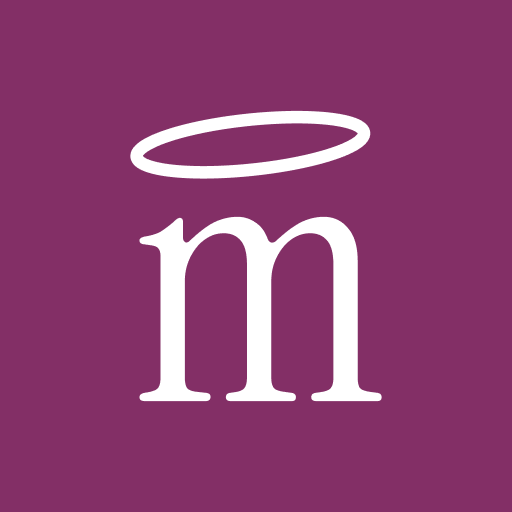
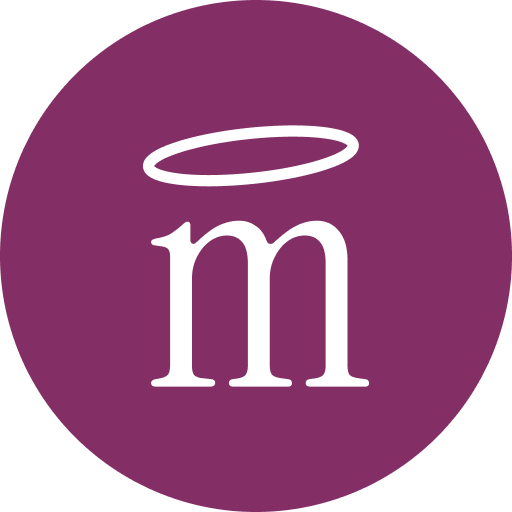
Designer edits: photos, services scroll, about margins, pop-ups, map
- Hero arches and team portraits framed as in Figma: the whole photo
  fills each shape; images generated at the exact shape (fit="fill"),
  1x and 2x (1.5x for the large arch)
- Services: opening a category scrolls its panel 20 px under the header
- About: content keeps its side margins (grid instead of flex) with
  Figma's 660 px frame
- Gift form: one-line title, Figma padding and label gaps; overlaps the
  top bar on ~750 px screens; no flicker after "Bon wysłany" (reset on
  next open via the new mh:beforeopen dialog event)
- Pop-ups: 16 px between blocks as in Figma (chooser 487 px, cookie
  settings 493 px); cookie buttons keep their own heights; on phones
  "Akceptuję wszystkie" first, 8 px gap; banner 20 px padding
- Mobile choosers and cookie settings: centred card, 12 px from the
  sides, all corners rounded
- Fix reduced-motion rule that removed pop-up borders; remove
  duplicated Modal styles
- Contact map: embeds the Massage Heaven place (studio.googleMapsEmbed),
  greyscale, Figma rings and pin on top; the pin opens Google Maps
- Favicon: round plum brand icon (apple-touch icon stays square)
- Decisions recorded in docs/open-questions.md

diff --git a/src/scripts/services.ts b/src/scripts/services.ts
@@ -1,7 +1,8 @@
 /**
  * Services behaviour (docs/behaviour/website.md → Services).
- * - Card click: open its panel (closing any other); click again or "Zwiń" to close.
- *   The page scrolls so the card + panel are in view.
+ * - Card click: open its panel (closing any other); the page scrolls so the panel
+ *   sits just under the header. Click the card again or "Zwiń" to close; the page
+ *   scrolls back to the card.
  * - Search: filters treatment names, ignoring case and Polish diacritics.
  *   Results title uses Polish plurals (1 zabieg, 2–4 zabiegi, 5+ zabiegów).
  * - "No results" chips clear the search and open that category.
@@ -50,12 +51,11 @@ export function initServices(root: HTMLElement): void {
   const status = root.querySelector<HTMLElement>('[data-search-status]')!;
   const searchIndex = resultRows.map((row) => normalise(row.dataset.name ?? ''));
 
-  const scrollToCard = (card: HTMLElement) => {
-    card.closest<HTMLElement>('.services__card')?.scrollIntoView({
-      behavior: prefersReducedMotion() ? 'auto' : 'smooth',
-      block: 'start',
-    });
-  };
+  const scrollTo = (el: HTMLElement | null | undefined) =>
+    el?.scrollIntoView({ behavior: prefersReducedMotion() ? 'auto' : 'smooth', block: 'start' });
+  const scrollToCard = (card: HTMLElement) => scrollTo(card.closest<HTMLElement>('.services__card'));
+  /** Opened: bring the panel (the big list) up under the header, with a little space. */
+  const scrollToPanel = (card: HTMLElement) => scrollTo(panelFor(card as HTMLButtonElement)?.closest<HTMLElement>('.services__panel'));
 
   const setOpen = (card: HTMLButtonElement, open: boolean) => {
     card.setAttribute('aria-expanded', String(open));
@@ -66,7 +66,7 @@ export function initServices(root: HTMLElement): void {
   const openCategory = (card: HTMLButtonElement) => {
     cards.forEach((c) => c !== card && setOpen(c, false));
     setOpen(card, true);
-    scrollToCard(card);
+    scrollToPanel(card);
   };
 
   const closeCategory = (card: HTMLButtonElement) => {

diff --git a/src/scripts/dialogs.ts b/src/scripts/dialogs.ts
@@ -9,6 +9,7 @@
  * - focus returns to the element that opened it; an opener with aria-expanded
  *   is kept in sync
  * - the page behind doesn't scroll (base.css: html:has(dialog[open]))
+ * - fires "mh:beforeopen" on the dialog just before it opens
  */
 const openers = new WeakMap<HTMLDialogElement, HTMLElement | null>();
 
@@ -17,6 +18,8 @@ export function openDialog(id: string, opener: HTMLElement | null = null): void 
   if (!(dialog instanceof HTMLDialogElement) || dialog.open) return;
   openers.set(dialog, opener);
   if (opener?.hasAttribute('aria-expanded')) opener.setAttribute('aria-expanded', 'true');
+  // Lets the content reset itself while still hidden (see gift-form.ts).
+  dialog.dispatchEvent(new Event('mh:beforeopen'));
   dialog.showModal();
 }
 

diff --git a/src/scripts/gift-form.ts b/src/scripts/gift-form.ts
@@ -164,8 +164,10 @@ export function initGiftForm(form: HTMLFormElement): void {
     sentView.hidden = true;
     dialog?.classList.remove('is-sent');
   };
-  dialog?.addEventListener('close', () => {
-    // Keep a half-filled form; start fresh only after a request was sent.
+  // Keep a half-filled form; start fresh only after a request was sent. Reset just
+  // before the pop-up opens again — resetting on close showed the form for a moment
+  // while the success screen was still fading out.
+  dialog?.addEventListener('mh:beforeopen', () => {
     if (dialog.classList.contains('is-sent')) reset();
   });
 

diff --git a/docs/open-questions.md b/docs/open-questions.md
@@ -48,7 +48,6 @@ Build around these with the placeholder shown. Don't invent answers. Strike an i
 - [ ] **Gift form "Kwota" field:** built as a plain number field "Kwota (zł)", any positive amount. Min/max or preset amounts still to decide.
 - [ ] **Form error messages:** written by Claude (`src/data/ui.pl.json` → `giftForm.errors`), shown in plum-100 under each field. Not designed; please review the wording.
 - [ ] **Copy for pop-ups:** the gift form, success screen and cookie texts came from Figma into `src/data/ui.pl.json`. The developer may want to move them into `site.json` so the admin panel can edit them.
-- [ ] **Google map embed:** uses the keyless `google.com/maps?q=…&output=embed` URL built from the address. Swap for an official embed URL from Google Maps → Share → Embed if preferred.
 - [ ] **Analytics hook:** no tool yet. The consent script fires a `mh:consent` event on `window` with the choice; start analytics there when one is chosen.
 - [ ] **Mobile menu logo:** the menu uses the 150 px logo (Figma 242:1206), the page header the 218 px one (240:1368). Built as Figma; this also explains the "150 px" in `design-system.md`.
 
@@ -58,7 +57,10 @@ Build around these with the placeholder shown. Don't invent answers. Strike an i
 - [ ] **JSON-LD (LocalBusiness):** not added yet; it needs the confirmed opening hours.
 
 ## Decided (for reference)
-- Favicon: the square plum brand icon (Figma 45:1936).
+- Mobile booking choosers and cookie settings: a card centred on screen, 12 px from the sides, all corners rounded, instead of Figma's edge-to-edge bottom sheet (2026-11-13).
+- Map: the live map embeds the Massage Heaven place itself (`site.json` → `studio.googleMapsEmbed`, same place as the `googleMaps` link), with the Figma rings and brand pin on top (2026-11-13).
+- Hero and team photos: shown exactly as in Figma, which stretches each photo to its arch/circle. When the client supplies new photos, export them already cropped to the shape (342 × 420, 263 × 323, 290 × 290 at 2×) so nothing is distorted.
+- Favicon: the round plum brand icon (Figma 45:1940) for browser tabs; the iPhone home-screen icon (`apple-touch-icon.png`) stays the square one (45:1936), because iOS rounds it itself and would fill round icons' transparent corners with black (2026-11-13).
 - Lowest price stays **"od 80 zł"** (the client's old site said 64 zł; ignore it).
 - Names: **Anastazja** and **Ina** everywhere. The privacy policy keeps the legal name Anastasiia Zhelezniak.
 - Website has exactly **6 categories**. The Instagram stories have 7 (website 03 = stories 03 + 04).

diff --git a/docs/quality-checks.md b/docs/quality-checks.md
@@ -17,7 +17,7 @@ Mobile: LCP 2.6–2.7 s, CLS 0. Desktop: LCP 0.6 s, CLS 0.
 
 Fixed during this step:
 - **Contrast:** grey text on the lavender backgrounds (hero lead, gift text) was 4.0–4.3:1. Now neutral-600 (6.8:1).
-- **Favicon:** missing (a 404 in the console). Added from the Figma brand icon 45:1936: `favicon.svg`, `favicon-32.png`, `apple-touch-icon.png`, `icon-512.png` in `public/`.
+- **Favicon:** missing (a 404 in the console). Added from the Figma brand icons: round 45:1940 for `favicon.svg`, `favicon-32.png` and `icon-512.png`; square 45:1936 for `apple-touch-icon.png` (iOS rounds it itself).
 - **Fonts:** the four above-the-fold fonts are preloaded (Sans 400/600, Serif 400 regular + italic). That removed a font-swap layout shift on desktop and cut mobile Speed Index from 4.9 s to 2.0 s.
 - **Hero photo:** loads with `fetchpriority="high"` (it is the LCP image).
 
